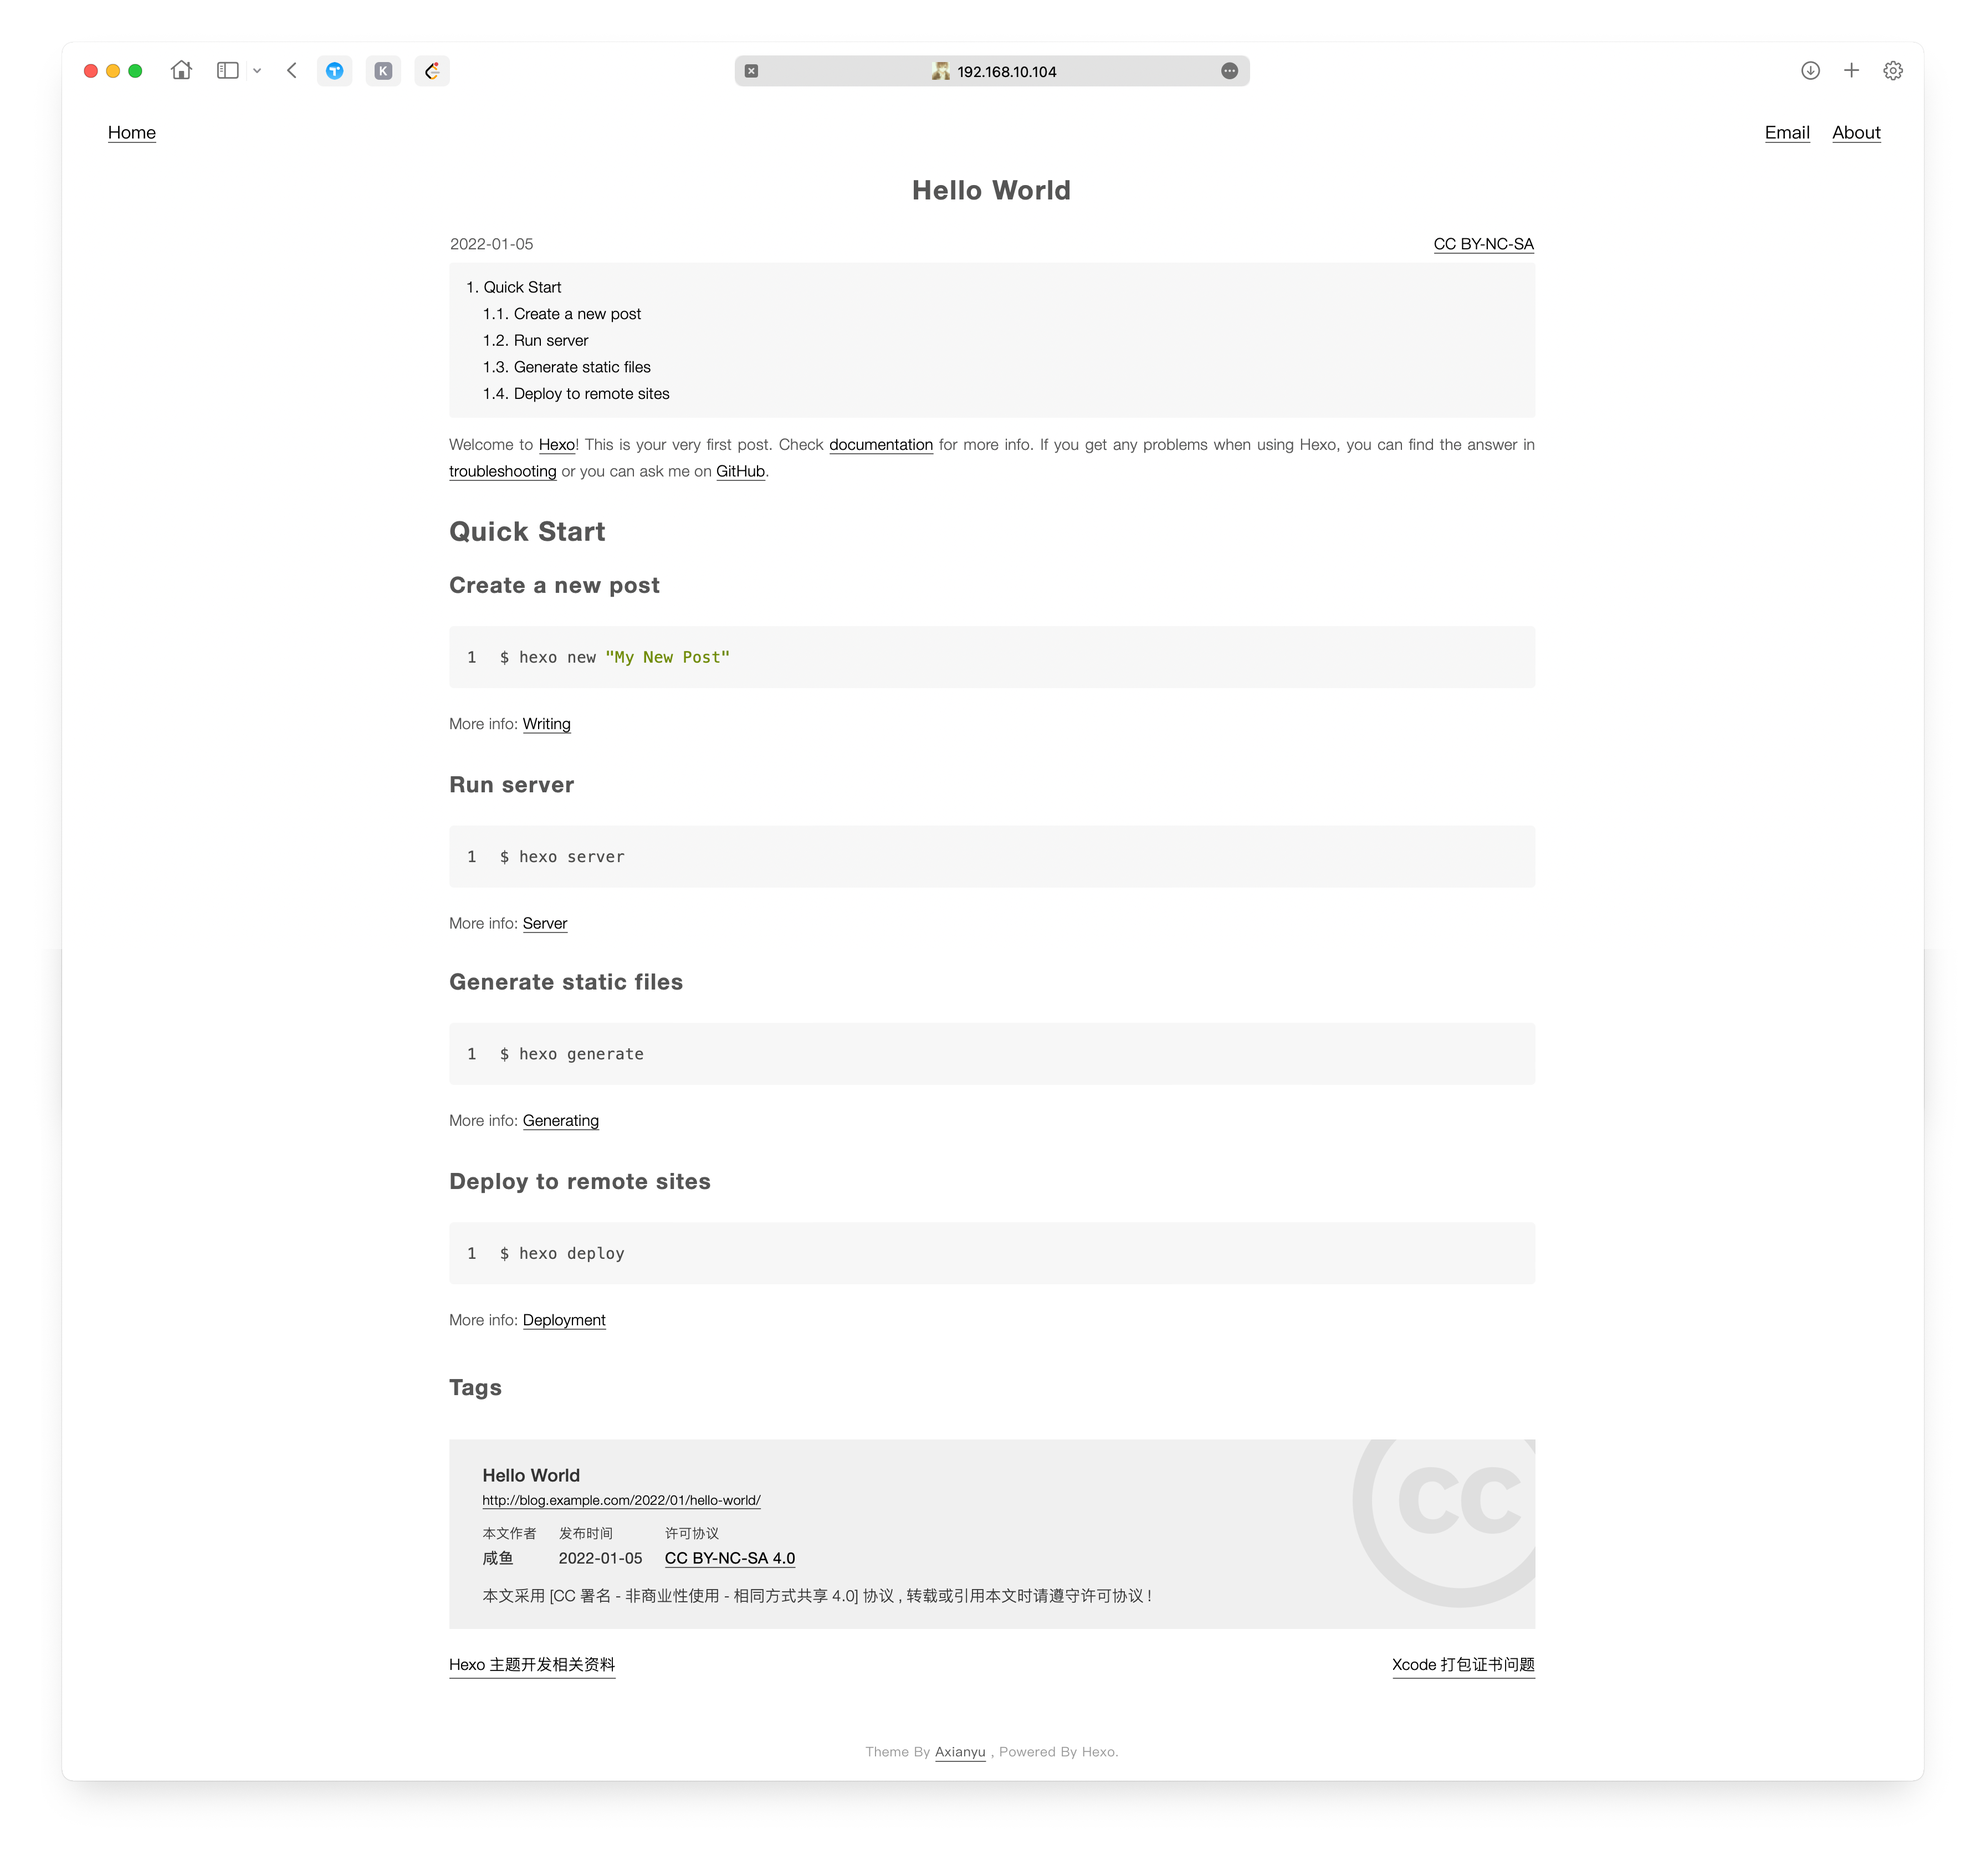
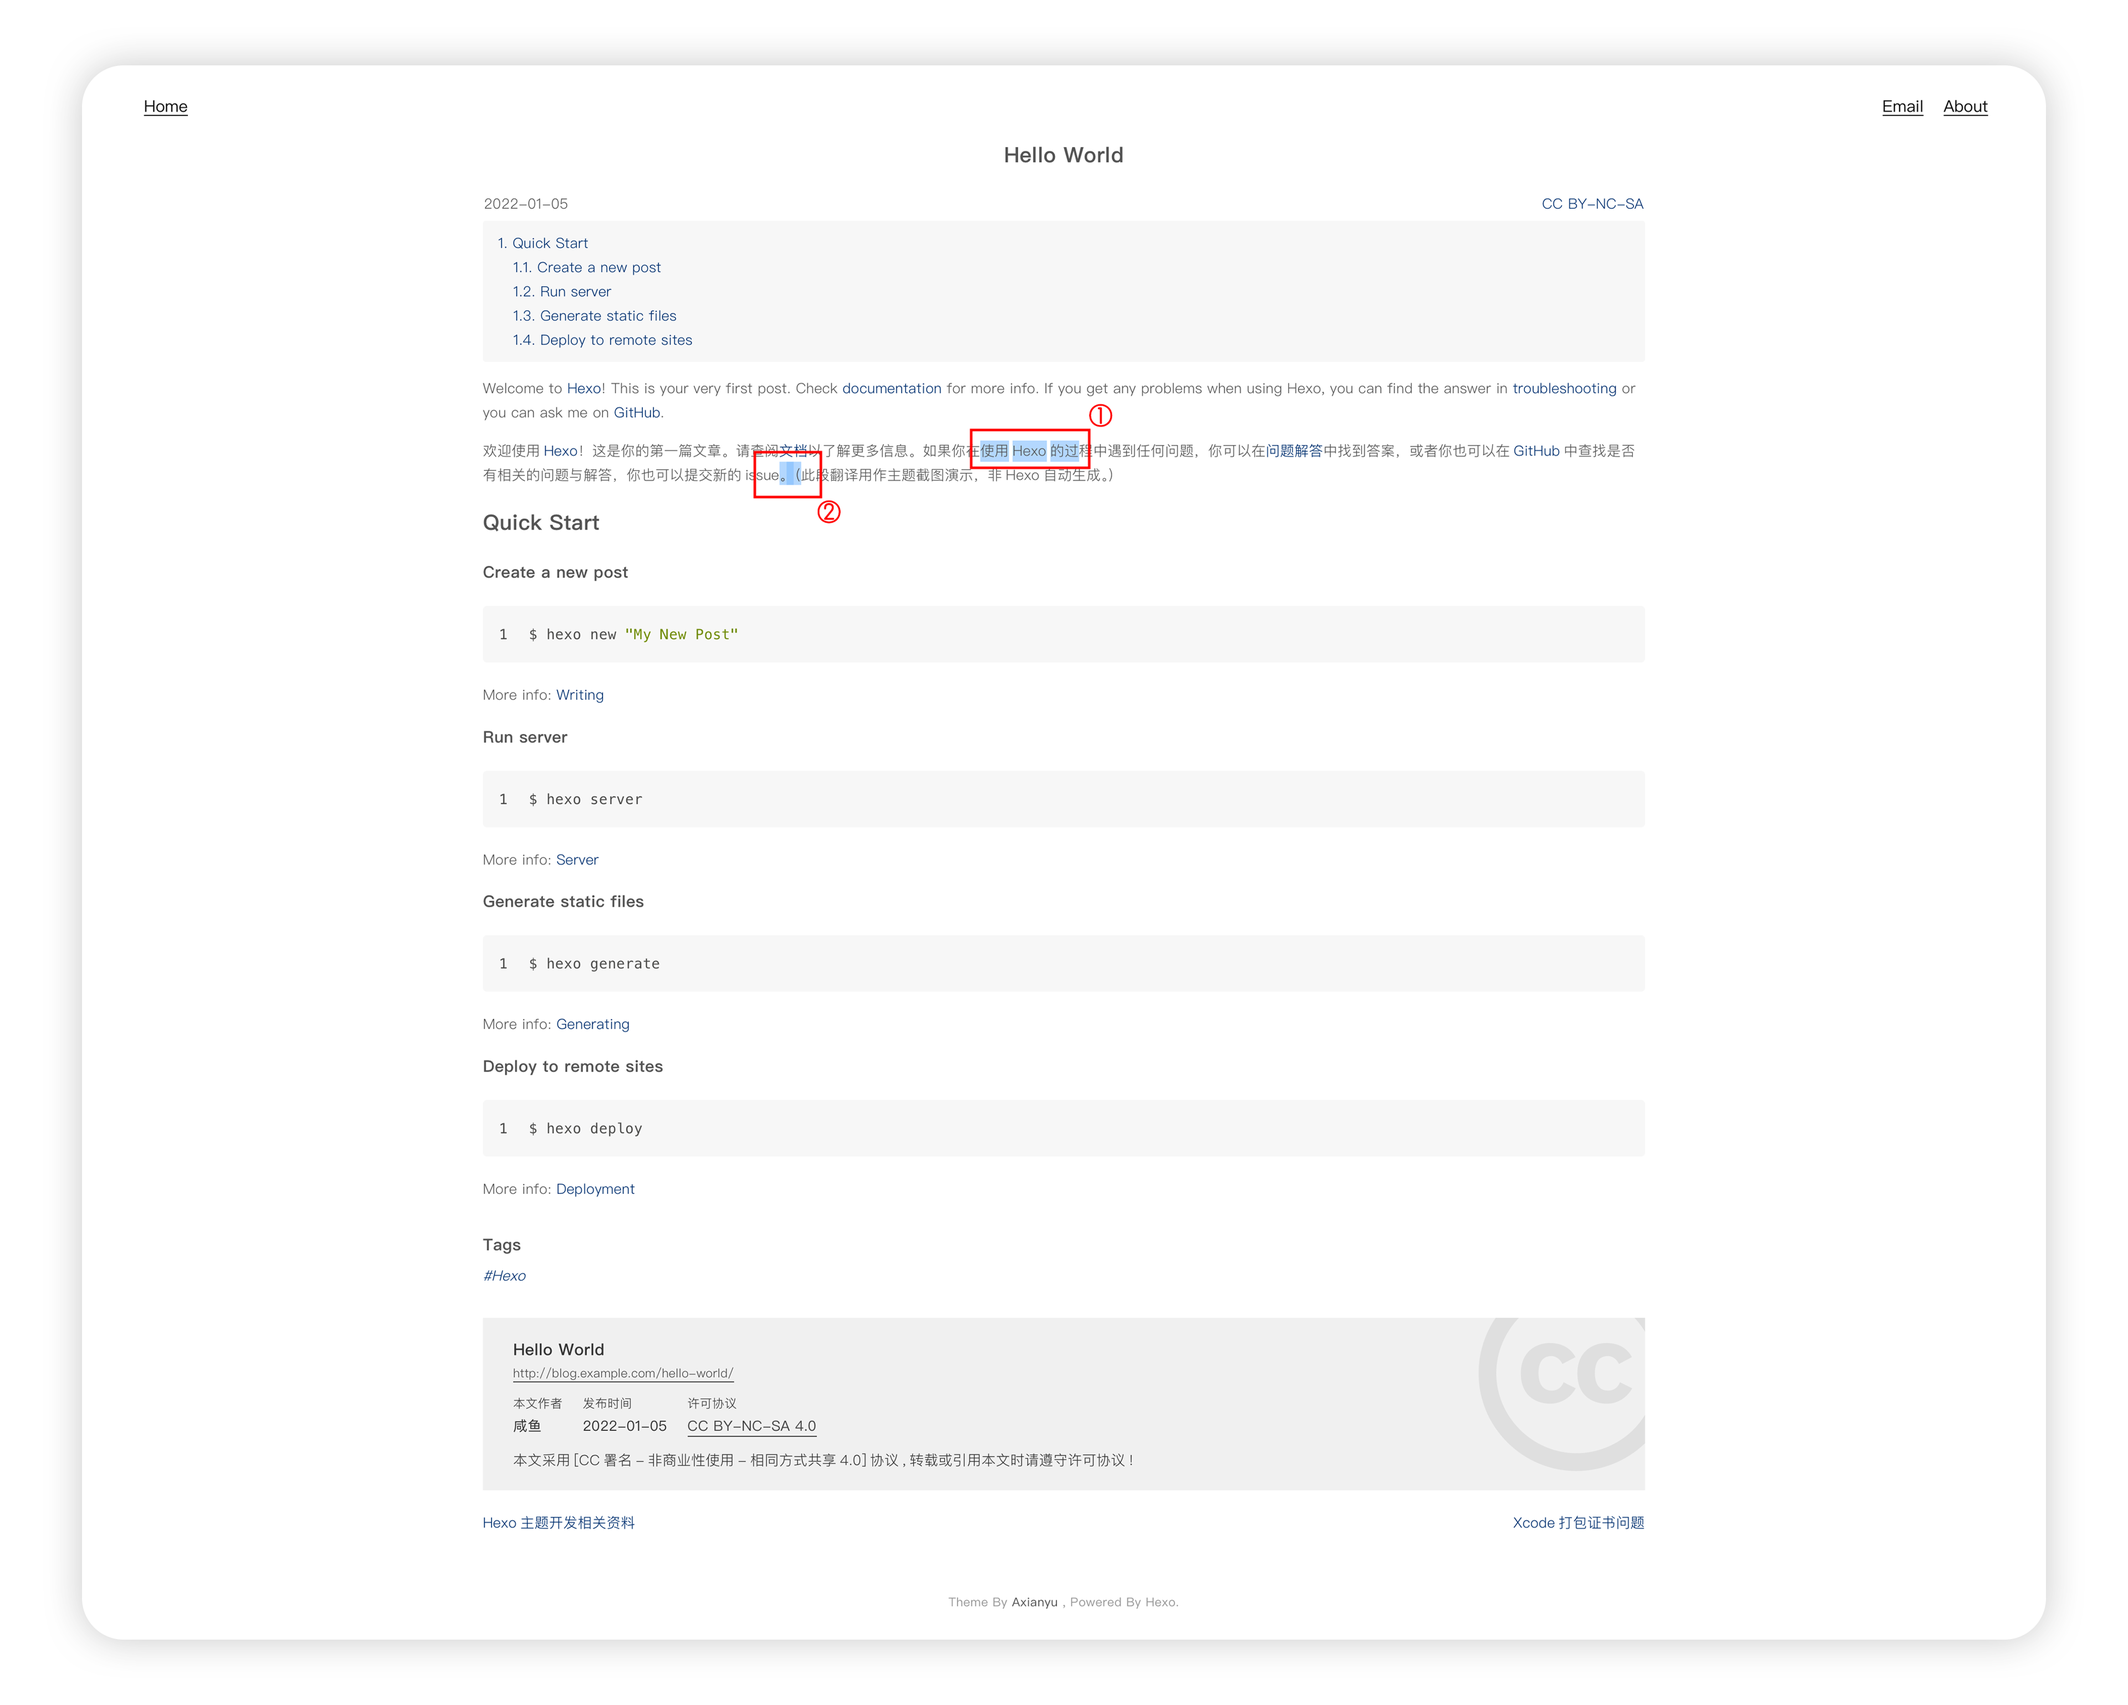
取消使用heti.css， 只采用heti.js

diff --git a/source/js/heti-addon.min.js b/source/js/heti-addon.min.js
@@ -1,0 +1,1 @@
+!function(e,t){"object"==typeof exports&&"undefined"!=typeof module?module.exports=t():"function"==typeof define&&define.amd?define(t):(e=e||self).Heti=t()}(this,(function(){"use strict";var e="undefined"!=typeof globalThis?globalThis:"undefined"!=typeof window?window:"undefined"!=typeof global?global:"undefined"!=typeof self?self:{};var t=function(e,t){return e(t={exports:{}},t.exports),t.exports}((function(t){var n,i;n=e,i=function(){var e=document,t={}.hasOwnProperty;function n(){return i.apply(null,arguments)||r.apply(null,arguments)}function i(e,t,i,o,s){if(t&&!t.nodeType&&arguments.length<=2)return!1;var a,d="function"==typeof i;d&&(a=i,i=function(e,t){return a(e.text,t.startIndex)});var c=r(t,{find:e,wrap:d?null:i,replace:d?i:"$"+(o||"&"),prepMatch:function(e,t){if(!e[0])throw"findAndReplaceDOMText cannot handle zero-length matches";if(o>0){var n=e[o];e.index+=e[0].indexOf(n),e[0]=n}return e.endIndex=e.index+e[0].length,e.startIndex=e.index,e.index=t,e},filterElements:s});return n.revert=function(){return c.revert()},!0}function r(e,t){return new o(e,t)}function o(e,i){i.offset||(i.offset=0);var r=i.preset&&n.PRESETS[i.preset];if(i.portionMode=i.portionMode||"retain",r)for(var o in r)t.call(r,o)&&!t.call(i,o)&&(i[o]=r[o]);this.node=e,this.options=i,this.prepMatch=i.prepMatch||this.prepMatch,this.reverts=[],this.matches=this.search(),this.matches.length&&this.processMatches()}return n.NON_PROSE_ELEMENTS={br:1,hr:1,script:1,style:1,img:1,video:1,audio:1,canvas:1,svg:1,map:1,object:1,input:1,textarea:1,select:1,option:1,optgroup:1,button:1},n.NON_CONTIGUOUS_PROSE_ELEMENTS={address:1,article:1,aside:1,blockquote:1,dd:1,div:1,dl:1,fieldset:1,figcaption:1,figure:1,footer:1,form:1,h1:1,h2:1,h3:1,h4:1,h5:1,h6:1,header:1,hgroup:1,hr:1,main:1,nav:1,noscript:1,ol:1,output:1,p:1,pre:1,section:1,ul:1,br:1,li:1,summary:1,dt:1,details:1,rp:1,rt:1,rtc:1,script:1,style:1,img:1,video:1,audio:1,canvas:1,svg:1,map:1,object:1,input:1,textarea:1,select:1,option:1,optgroup:1,button:1,table:1,tbody:1,thead:1,th:1,tr:1,td:1,caption:1,col:1,tfoot:1,colgroup:1},n.NON_INLINE_PROSE=function(e){return t.call(n.NON_CONTIGUOUS_PROSE_ELEMENTS,e.nodeName.toLowerCase())},n.PRESETS={prose:{forceContext:n.NON_INLINE_PROSE,filterElements:function(e){return!t.call(n.NON_PROSE_ELEMENTS,e.nodeName.toLowerCase())}}},n.Finder=o,o.prototype={search:function(){var e,t=0,n=0,i=this.options.find,r=this.getAggregateText(),o=[],s=this;return i="string"==typeof i?RegExp(String(i).replace(/([.*+?^=!:${}()|[\]\/\\])/g,"\\$1"),"g"):i,function r(a){for(var d=0,c=a.length;d<c;++d){var p=a[d];if("string"==typeof p){if(i.global)for(;e=i.exec(p);)o.push(s.prepMatch(e,t++,n));else(e=p.match(i))&&o.push(s.prepMatch(e,0,n));n+=p.length}else r(p)}}(r),o},prepMatch:function(e,t,n){if(!e[0])throw new Error("findAndReplaceDOMText cannot handle zero-length matches");return e.endIndex=n+e.index+e[0].length,e.startIndex=n+e.index,e.index=t,e},getAggregateText:function(){var e=this.options.filterElements,t=this.options.forceContext;return function n(i){if(i.nodeType===Node.TEXT_NODE)return[i.data];if(e&&!e(i))return[];var r=[""],o=0;if(i=i.firstChild)do{if(i.nodeType!==Node.TEXT_NODE){var s=n(i);t&&i.nodeType===Node.ELEMENT_NODE&&(!0===t||t(i))?(r[++o]=s,r[++o]=""):("string"==typeof s[0]&&(r[o]+=s.shift()),s.length&&(r[++o]=s,r[++o]=""))}else r[o]+=i.data}while(i=i.nextSibling);return r}(this.node)},processMatches:function(){var e,t,n,i=this.matches,r=this.node,o=this.options.filterElements,s=[],a=r,d=i.shift(),c=0,p=0,h=[r];e:for(;;){if(a.nodeType===Node.TEXT_NODE&&(!t&&a.length+c>=d.endIndex?t={node:a,index:p++,text:a.data.substring(d.startIndex-c+this.options.offset,d.endIndex-c),indexInMatch:0===c?0:c-d.startIndex,indexInNode:d.startIndex-c+this.options.offset,endIndexInNode:d.endIndex-c,isEnd:!0}:e&&s.push({node:a,index:p++,text:a.data,indexInMatch:c-d.startIndex,indexInNode:0}),!e&&a.length+c>d.startIndex&&(e={node:a,index:p++,indexInMatch:0,indexInNode:d.startIndex-c+this.options.offset,endIndexInNode:d.endIndex-c,text:a.data.substring(d.startIndex-c+this.options.offset,d.endIndex-c)}),c+=a.data.length),n=a.nodeType===Node.ELEMENT_NODE&&o&&!o(a),e&&t){if(a=this.replaceMatch(d,e,s,t),c-=t.node.data.length-t.endIndexInNode,e=null,t=null,s=[],p=0,!(d=i.shift()))break}else if(!n&&(a.firstChild||a.nextSibling)){a.firstChild?(h.push(a),a=a.firstChild):a=a.nextSibling;continue}for(;;){if(a.nextSibling){a=a.nextSibling;break}if((a=h.pop())===r)break e}}},revert:function(){for(var e=this.reverts.length;e--;)this.reverts[e]();this.reverts=[]},prepareReplacementString:function(e,t,n){var i=this.options.portionMode;return"first"===i&&t.indexInMatch>0?"":(e=e.replace(/\$(\d+|&|`|')/g,(function(e,t){var i;switch(t){case"&":i=n[0];break;case"`":i=n.input.substring(0,n.startIndex);break;case"'":i=n.input.substring(n.endIndex);break;default:i=n[+t]||""}return i})),"first"===i?e:t.isEnd?e.substring(t.indexInMatch):e.substring(t.indexInMatch,t.indexInMatch+t.text.length))},getPortionReplacementNode:function(t,n){var i=this.options.replace||"$&",r=this.options.wrap,o=this.options.wrapClass;if(r&&r.nodeType){var s=e.createElement("div");s.innerHTML=r.outerHTML||(new XMLSerializer).serializeToString(r),r=s.firstChild}if("function"==typeof i)return(i=i(t,n))&&i.nodeType?i:e.createTextNode(String(i));var a="string"==typeof r?e.createElement(r):r;return a&&o&&(a.className=o),(i=e.createTextNode(this.prepareReplacementString(i,t,n))).data&&a?(a.appendChild(i),a):i},replaceMatch:function(t,n,i,r){var o,s,a=n.node,d=r.node;if(a===d){var c=a;n.indexInNode>0&&(o=e.createTextNode(c.data.substring(0,n.indexInNode)),c.parentNode.insertBefore(o,c));var p=this.getPortionReplacementNode(r,t);return c.parentNode.insertBefore(p,c),r.endIndexInNode<c.length&&(s=e.createTextNode(c.data.substring(r.endIndexInNode)),c.parentNode.insertBefore(s,c)),c.parentNode.removeChild(c),this.reverts.push((function(){o===p.previousSibling&&o.parentNode.removeChild(o),s===p.nextSibling&&s.parentNode.removeChild(s),p.parentNode.replaceChild(c,p)})),p}o=e.createTextNode(a.data.substring(0,n.indexInNode)),s=e.createTextNode(d.data.substring(r.endIndexInNode));for(var h=this.getPortionReplacementNode(n,t),f=[],l=0,u=i.length;l<u;++l){var g=i[l],x=this.getPortionReplacementNode(g,t);g.node.parentNode.replaceChild(x,g.node),this.reverts.push(function(e,t){return function(){t.parentNode.replaceChild(e.node,t)}}(g,x)),f.push(x)}var N=this.getPortionReplacementNode(r,t);return a.parentNode.insertBefore(o,a),a.parentNode.insertBefore(h,a),a.parentNode.removeChild(a),d.parentNode.insertBefore(N,d),d.parentNode.insertBefore(s,d),d.parentNode.removeChild(d),this.reverts.push((function(){o.parentNode.removeChild(o),h.parentNode.replaceChild(a,h),s.parentNode.removeChild(s),N.parentNode.replaceChild(d,N)})),N}},n},t.exports?t.exports=i():n.findAndReplaceDOMText=i()}));const n={}.hasOwnProperty,i=Object.assign({},t.NON_CONTIGUOUS_PROSE_ELEMENTS,{ins:1,del:1,s:1}),r=Object.assign({},t.NON_PROSE_ELEMENTS,{pre:1,code:1,sup:1,sub:1,"heti-spacing":1,"heti-close":1}),o="⺀-⻿⼀-⿟぀-ゟ゠-ヺー-ヿ㄀-ㄯ㈀-㋿㐀-䶿一-鿿豈-﫿",s="A-Za-z-ÿͰ-Ͽ0-9`~!@#\\$%\\^&\\*\\(\\)-_=\\+\\[\\]{}\\\\\\|;:'\",<.>\\/\\?",a=`(?<=[${o}])( *[${s}]+(?: +[${s}]+)* *)(?=[${o}])`,d=`([${s}]+(?: +[${s}]+)* *)(?=[${o}])`,c=`(?<=[${o}])( *[${s}]+(?: +[${s}]+)*)`,p=`(?:[${o}])( *[${s}]+(?: +[${s}]+)* *)(?=[${o}])`,h=`(?:[${o}])( *[${s}]+(?: +[${s}]+)*)`;return class{constructor(e){let t=!0;try{new RegExp("(?<=d)d","g").test("")}catch(e){e.name,t=!1}this.rootSelector=e||".heti",this.REG_FULL=new RegExp(t?a:p,"g"),this.REG_START=new RegExp(d,"g"),this.REG_END=new RegExp(t?c:h,"g"),this.offsetWidth=t?0:1,this.funcForceContext=function(e){return n.call(i,e.nodeName.toLowerCase())},this.funcFilterElements=function(e){return!(e.classList&&e.classList.contains("heti-skip")||n.call(r,e.nodeName.toLowerCase()))}}spacingElements(e){for(let t of e)this.spacingElement(t)}spacingElement(e){const n={forceContext:this.funcForceContext,filterElements:this.funcFilterElements},i=function(e,t,n,i,r){if(""===n&&i)return document.createElement("span");const o=document.createElement(e);return o.className=t,o.textContent=n.trim(),o};t(e,Object.assign({},n,{find:this.REG_FULL,replace:e=>i("heti-spacing","heti-spacing-start heti-spacing-end",e.text,!0),offset:this.offsetWidth})),t(e,Object.assign({},n,{find:this.REG_START,replace:e=>i("heti-spacing","heti-spacing-start",e.text,!0)})),t(e,Object.assign({},n,{find:this.REG_END,replace:e=>i("heti-spacing","heti-spacing-end",e.text,!0),offset:this.offsetWidth})),t(e,Object.assign({},n,{find:new RegExp("([。．，、：；！‼？⁇])(?=[「『（《〈【〖〔［｛」』）》〉】〗〕］｝])|([「『（《〈【〖〔［｛])(?=[「『（《〈【〖〔［｛])|([」』）》〉】〗〕］｝])(?=[。．，、：；！‼？⁇「『（《〈【〖〔［｛」』）》〉】〗〕］｝])","g"),replace:e=>i("heti-adjacent","heti-adjacent-half",e.text),offset:this.offsetWidth})),t(e,Object.assign({},n,{find:new RegExp("([·・‧])(?=[「『（《〈【〖〔［｛])|([」』）》〉】〗〕］｝])(?=[·・‧])","g"),replace:e=>i("heti-adjacent","heti-adjacent-quarter",e.text),offset:this.offsetWidth})),t(e,Object.assign({},n,{find:new RegExp("([。．，、：；！‼？⁇])(?=[“‘”’])|([“‘])(?=[「『（《〈【〖〔［｛])","g"),replace:e=>i("heti-adjacent","heti-adjacent-quarter",e.text),offset:this.offsetWidth}))}autoSpacing(){document.addEventListener("DOMContentLoaded",()=>{const e=document.querySelectorAll(this.rootSelector);for(let t of e)this.spacingElement(t)})}}}));

diff --git a/README.md b/README.md
@@ -4,10 +4,15 @@
 
 主题使用 [赫蹏（hètí）][7] 优化文字排版, 中英文混排优化, 无论你是否在中西文之间留有空格的习惯, 都会自动统一蹭标准间距(1/4 字宽的空白); 自动对中文标点进行间距挤压。
 
-> 主题所使用的 heti.css 非原版， 经过适配主题处理过， 仓库地址： [https://github.com/kgysf/heti][8]
+> 主题所使用的 heti.js 非原版， 经过适配主题处理过，[仓库地址][8]
 
-内置CC许可协议设置、文章许可协议信息展示以及复制追加版权信息功能，具体用法请看版权保护部分。  
+内置CC许可协议设置、文章许可协议信息展示以及复制追加版权信息功能，具体用法请看版权保护部分。
 
+![preview](/images/preview.png)  
+
+> 关于上图
+> 1. 单词Hexo左右使用margin替代空格（无论你是否有手动输入空格），在单词和中文之间添加间距增强可读性。
+> 2. 标点符号句号和括号之间有明显重叠，即为中文标点间距挤压的表现（中文符号中，句号之后与左括号之前都会有较长空白间距）
 
 
     1. Installation
